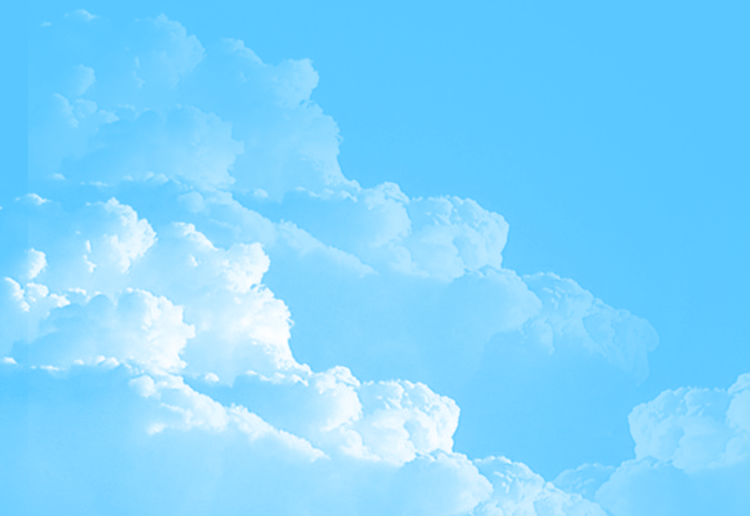
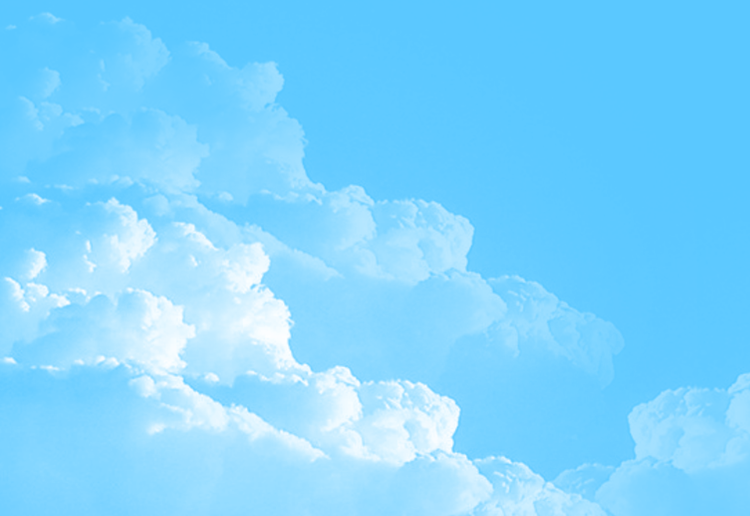
手机端样式更新

diff --git a/project/Public/Home/css/index.css b/project/Public/Home/css/index.css
@@ -1,7 +1,33 @@
-a{text-decoration:none;color: #000;}
-a:link{text-decoration:none}   /* 指正常的未被访问过的链接*/
-a:visited{text-decoration:none;} /*指已经访问过的链接*/
-a:active{text-decoration:none;}/* 指正在点的链接*/
+@charset "utf-8";
+/*重置样式开始*/
+html{color:#000;background:#fff;overflow-y:scroll;-webkit-text-size-adjust:100%;-ms-text-size-adjust:100%}html
+																										  *{outline:0;-webkit-text-size-adjust:none;-webkit-tap-highlight-color:rgba(0,0,0,0)}html,body{font-family:sans-serif}
+body,div,dl,dt,dd,ul,ol,li,h1,h2,h3,h4,h5,h6,pre,code,form,fieldset,legend,input,textarea,p,blockquote,th,td,hr,button,article,aside,details,figcaption,figure,footer,header,hgroup,menu,nav,section{margin:0;padding:0}
+input,select,textarea{font-size:100%}table{border-collapse:collapse;border-spacing:0}fieldset,
+																					 img{border:0}abbr,acronym{border:0;font-variant:normal}
+del{text-decoration:line-through}
+address,caption,cite,code,dfn,em,th,var{font-style:normal;font-weight:500;}
+ol,ul{list-style:none}
+caption,th{text-align:left}
+h1,h2,h3,h4,h5,h6{font-size:100%;font-weight:500}
+q:before,q:after{content:''}
+sub,sup{font-size:75%;line-height:0;position:relative;vertical-align:baseline}
+sup{top:-.5em}sub{bottom:-.25em}
+ins,a{text-decoration:none!important;color: #000;}
+a:link{text-decoration:none!important;}   /* 指正常的未被访问过的链接*/
+a:visited{text-decoration:none!important;} /*指已经访问过的链接*/
+a:hover{text-decoration:none!important;}/*指鼠标在链接*/
+a:active{text-decoration:none!important;}/* 指正在点的链接*/
+ul, li, dl, dt, dd, form, h1, h2, h3, h4, p, input, form {
+	appearance:none;
+	-moz-appearance:none;
+	-webkit-appearance:none;
+	-webkit-appearance: none;
+}
+.clearfix:after{content:"";height:0;line-height:0;display:block;visibility:hidden;clear:both}
+.clearfix{zoom:1;}/*为了兼容IE*/
+.clear{clear:both;}
+/*重置样式结束*/
 .top{
 	width:10rem;
 	background: url("../images/yun_01.png") no-repeat;
@@ -41,8 +67,9 @@ a:active{text-decoration:none;}/* 指正在点的链接*/
 	position: absolute;
 	left:0;
 	bottom: 0;
-	background: url("../images/bolang_01.png") repeat-x;
-	background-size: 100% 100%;
+	background: url("../images/bolang_01.png");
+	background-size:100% 100%;
+	-webkit-background-size:100% 100%;
 	-webkit-animation:bolang 6.5s linear infinite;
 	animation:bolang 6.5s linear infinite;
 }
@@ -52,8 +79,9 @@ a:active{text-decoration:none;}/* 指正在点的链接*/
 	position: absolute;
 	left:-0vw;
 	bottom: 0;
-	background: url("../images/bolang_01.png") repeat-x;
-	background-size: 100% 100%;
+	background: url("../images/bolang_01.png");
+	background-size:100% 100%;
+	-webkit-background-size:100% 100%;
 	-webkit-animation:bolang1 6.5s linear infinite;
 	animation:bolang1 6.5s linear infinite;
 }
@@ -118,7 +146,6 @@ a:active{text-decoration:none;}/* 指正在点的链接*/
 }
 
 .allStatus{
-	background-color: red;
 	margin-left: 0.5rem;
 	margin-right: 0.5rem;
 }
@@ -171,8 +198,9 @@ a:active{text-decoration:none;}/* 指正在点的链接*/
     height: 2rem;
     position: absolute;
     left:0;
-    background: url("../images/bolang_01.png") repeat-x;
-	background-size: 100% 100%;
+	background: url("../images/bolang_05.png");
+	background-size:100% 100%;
+	-webkit-background-size:100% 100%;
     -webkit-animation:shuibolang1 6s linear infinite;
 	animation:shuibolang1 6s linear infinite;
 }
@@ -181,8 +209,9 @@ a:active{text-decoration:none;}/* 指正在点的链接*/
     height: 2rem;
     position: absolute;
     left:-100vw;
-    background: url("../images/bolang_01.png") repeat-x;
-	background-size: 100% 100%;
+	background: url("../images/bolang_05.png");
+	background-size:100% 100%;
+	-webkit-background-size:100% 100%;
     -webkit-animation:shuibolang2 6s linear infinite;
 	animation:shuibolang2 6s linear infinite;
 }
@@ -201,6 +230,7 @@ a:active{text-decoration:none;}/* 指正在点的链接*/
 
 .textRight{
 	position: absolute;
+	height: 2rem;
 	top:0.8rem;
 	right:0.5rem;
 	z-index: 11;
@@ -230,7 +260,7 @@ a:active{text-decoration:none;}/* 指正在点的链接*/
 	font-size: 1.1rem;
 }
 .bottom ul li span{
-	font-size:0.6rem;
+	font-size:0.4rem;
 }
 
 /*底部图标颜色*/
@@ -257,38 +287,38 @@ a:active{text-decoration:none;}/* 指正在点的链接*/
 /*水的动画*/
 @-webkit-keyframes bolang{
 			0%{left:0;}
-			100%{left:6.4rem;}
+			100%{left:64vw;}
 }
 @keyframes bolang{
 			0%{left:0;}
-			100%{left:6.4rem;}
+			100%{left:64vw;}
 }
 /*水的动画*/
 @-webkit-keyframes bolang1{
-			0%{left:-6.4rem;}
+			0%{left:-64vw;}
 			100%{left:0;}
 }
 @keyframes bolang1{
-			0%{left:-6.4rem;}
+			0%{left:-64vw;}
 			100%{left:0;}
 }
 
 /*水的动画*/
 @-webkit-keyframes shuibolang1{
 			0%{left:0;}
-			100%{left:10rem;}
+			100%{left:100vw;}
 }
 @keyframes shuibolang1{
 			0%{left:0;}
-			100%{left:10rem;}
+			100%{left:100vw;}
 }
 /*水的动画*/
 @-webkit-keyframes shuibolang2{
-			0%{left:-10rem;}
+			0%{left:-100vw;}
 			100%{left:0;}
 }
 @keyframes shuibolang2{
-			0%{left:-10rem;}
+			0%{left:-100vw;}
 			100%{left:0;}
 }
 

diff --git a/project/Application/Home/View/Index/index.html b/project/Application/Home/View/Index/index.html
@@ -4,7 +4,6 @@
 	<meta charset="UTF-8">
 	<title>净水物联网</title>
 	<meta name="viewport" content="width=device-width, user-scalable=no, initial-scale=1.0, maximum-scale=1.0, minimum-scale=1.0,minimal-ui" />
-	<!--<link rel="stylesheet" href="__PUBLIC__/Home/css/flexible.css">-->
 	<link rel="stylesheet" type="text/css" href="__PUBLIC__/Home/css/index.css">
 	<link rel="stylesheet" type="text/css" href="__PUBLIC__/Home/css/iconfont.css">
 </head>
@@ -97,7 +96,7 @@
 		var deviceInfo=JSON.parse($(".deviceInfo").val());
 		var deviceId=data.deviceid;//设备id
 		// var deviceId=162753445596778;//设备id
-		// var deviceId=112233445566778;//设备id
+		var deviceId=112233445566778;//设备id
 		var devicestause=data.devicestause;//设备状态
 		console.log(data);
 

diff --git a/project/Public/Home/css/order-all.css b/project/Public/Home/css/order-all.css
@@ -2,8 +2,13 @@ ins,a{text-decoration:none!important;color: #000;}
 a:link{text-decoration:none!important;}   /* 指正常的未被访问过的链接*/
 a:visited{text-decoration:none!important;} /*指已经访问过的链接*/
 a:hover{text-decoration:none!important;}/*指鼠标在链接*/}
-a:active{text-decoration:none!important;}/* 指正在点的链接*/ 
-
+a:active{text-decoration:none!important;}/* 指正在点的链接*/
+ul, li, dl, dt, dd, form, h1, h2, h3, h4, p, input, form {
+	appearance:none;
+	-moz-appearance:none;
+	-webkit-appearance:none;
+	-webkit-appearance: none;
+}
 #container{
 
     margin: 0.4rem 0.4rem 0.5rem 0.4rem !important;

diff --git a/project/Public/Home/css/mine-first.css b/project/Public/Home/css/mine-first.css
@@ -6,8 +6,13 @@ a{
 a:link{text-decoration:none!important;}   /* 指正常的未被访问过的链接*/
 a:visited{text-decoration:none!important;} /*指已经访问过的链接*/
 a:hover{text-decoration:none!important;}/*指鼠标在链接*/
-a:active{text-decoration:none!important;}/* 指正在点的链接*/ 
-
+a:active{text-decoration:none!important;}/* 指正在点的链接*/
+ul, li, dl, dt, dd, form, h1, h2, h3, h4, p, input, form {
+	appearance:none;
+	-moz-appearance:none;
+	-webkit-appearance:none;
+	-webkit-appearance: none;
+}
 #mine-first-all {
 	width: 10.0rem;
 	background-size: contain;

diff --git a/project/Public/Home/css/lvxin-chongzhi.css b/project/Public/Home/css/lvxin-chongzhi.css
@@ -1,6 +1,7 @@
 body {
 	color: #585858;
 }
+
 #contain{
 	width: 100%;
     margin: 0.4rem 0; 
@@ -119,10 +120,11 @@ font-size: 0.426667rem;
 	height:1.2rem;  /*90*/
 	margin-top: 0.346667rem; /*26*/
 	margin-left: 0.84rem; /*126/2=63*/
-	border-radius: 0.133333rem; /* 10*/
+
 	border: 1px solid #ddd;
 	color: #585858;
-    background: rgba(0,0,0,0);
+	background: #039CE9;
+	-webkit-background: #039CE9;
 }
 /*==========<!-- 滤芯开始 -->============*/
 #mo{

diff --git a/project/Public/Home/css/mobileStyle.css b/project/Public/Home/css/mobileStyle.css
@@ -7,7 +7,12 @@
     -webkit-touch-callout: none;
     box-sizing: border-box;
 }
-
+ul, li, dl, dt, dd, form, h1, h2, h3, h4, p, input, form {
+    appearance:none;
+    -moz-appearance:none;
+    -webkit-appearance:none;
+    -webkit-appearance: none;
+}
 html,
 body {
     overflow-x: hidden;

diff --git a/project/Public/Home/css/pay-succeed.css b/project/Public/Home/css/pay-succeed.css
@@ -1,4 +1,10 @@
 /*===============支付成功===============*/
+ul, li, dl, dt, dd, form, h1, h2, h3, h4, p, input, form {
+	appearance:none;
+	-moz-appearance:none;
+	-webkit-appearance:none;
+	-webkit-appearance: none;
+}
 #pay-succeed-all{
 	width:10.0rem;
 }

diff --git a/project/Public/Home/css/water-purifier.css b/project/Public/Home/css/water-purifier.css
@@ -1,3 +1,9 @@
+ul, li, dl, dt, dd, form, h1, h2, h3, h4, p, input, form {
+	appearance:none;
+	-moz-appearance:none;
+	-webkit-appearance:none;
+	-webkit-appearance: none;
+}
 #contain {
 	width: 10.0rem;
 	background: url(../images/bg_1_04.png);

diff --git a/project/Public/Home/css/repair.css b/project/Public/Home/css/repair.css
@@ -2,7 +2,12 @@
 	padding: 0;
 	margin: 0;
 }
-
+ul, li, dl, dt, dd, form, h1, h2, h3, h4, p, input, form {
+	appearance:none;
+	-moz-appearance:none;
+	-webkit-appearance:none;
+	-webkit-appearance: none;
+}
 #repair-all {
 	width: 10.0rem;
 }

diff --git a/project/Public/Home/css/order-allok.css b/project/Public/Home/css/order-allok.css
@@ -1,3 +1,9 @@
+ul, li, dl, dt, dd, form, h1, h2, h3, h4, p, input, form {
+	appearance:none;
+	-moz-appearance:none;
+	-webkit-appearance:none;
+	-webkit-appearance: none;
+}
 #contain{
 	width:9.2rem; 
 	margin:0.4rem 0.4rem 2rem 0.4rem;

diff --git a/project/Public/Home/css/information.css b/project/Public/Home/css/information.css
@@ -1,3 +1,9 @@
+ul, li, dl, dt, dd, form, h1, h2, h3, h4, p, input, form {
+	appearance:none;
+	-moz-appearance:none;
+	-webkit-appearance:none;
+	-webkit-appearance: none;
+}
 #infor {
 	width: 10.0rem;
 	margin-bottom: 1.466667rem;

diff --git a/project/Public/Home/css/all-devices.css b/project/Public/Home/css/all-devices.css
@@ -1,3 +1,9 @@
+ul, li, dl, dt, dd, form, h1, h2, h3, h4, p, input, form {
+	appearance:none;
+	-moz-appearance:none;
+	-webkit-appearance:none;
+	-webkit-appearance: none;
+}
 #devices-all {
 	width: 10.0rem;
 	position: relative;
